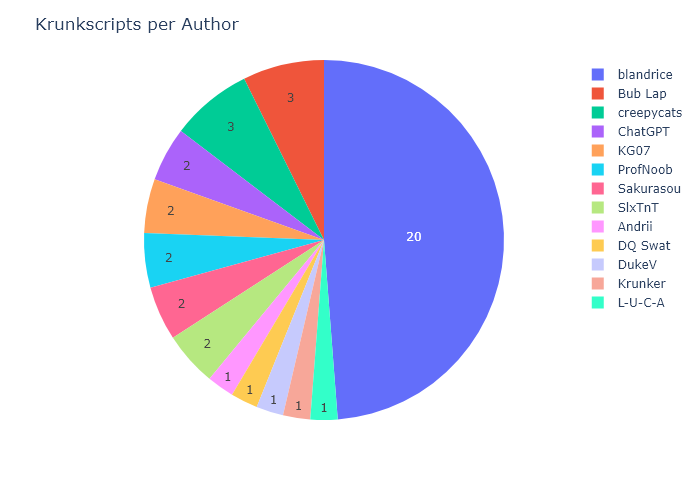
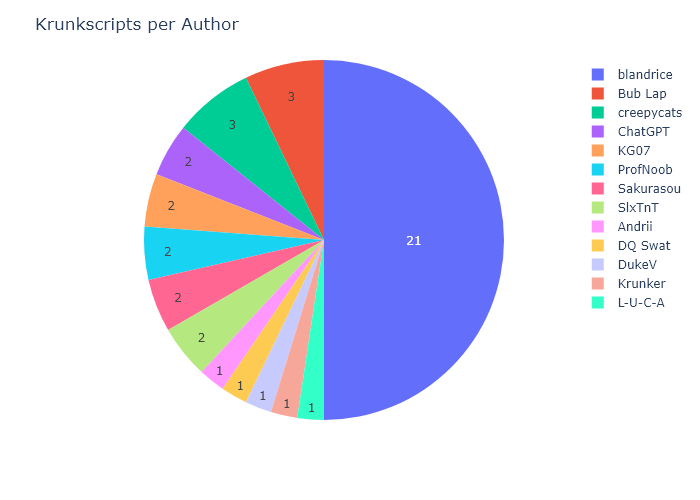
add skydome change

diff --git a/docs/KrunkScriptTable.md b/docs/KrunkScriptTable.md
@@ -10,7 +10,7 @@
 |  5 | database       | ranks              | blandrice  | yes      | yes      |         | Create a map in Krunker and copy the client & server scripts from this github to your new map.                                                                                                                  | https://github.com/blandrice/krunkerClansPlus                                          | https://github.com/blandrice/blandlibs/tree/master/libs/database/clansrank                           | ["'database'", " 'clansrank'"]                                 |
 |  6 | database       | ranksmainmap       | blandrice  | yes      | yes      |         | This is a shareable script to display popular Krunker Commmunity Clans Ranks in-game.                                                                                                                           | https://github.com/blandrice/krunkerClansPlus                                          | https://github.com/blandrice/blandlibs/tree/master/libs/database/clansrank                           | ["'database'", " 'clansrank'"]                                 |
 |  7 | examples       | drawtriangle       | Bub Lap    |          |          | yes     | Basic drawTriangle action (KrunkScript example)                                                                                                                                                                 | https://discord.com/channels/484192043833491487/575245801744498689/913314916637749258  | https://github.com/blandrice/blandlibs/tree/master/libs/examples/drawtriangle                        | ["'examples'", " 'drawtriangle'"]                              |
-|  8 | examples       | flashlight         | Krunker    | yes      | yes      |         | Flashlight script using Triggers. modified by blandrice/Profnoob/Rishabh                                                                                                                                        | https://discord.com/channels/859947586005368862/877996910902931466/1000198857877114950 | https://github.com/blandrice/blandlibs/tree/master/libs/examples/drawtriangle/flashlight             | ["'examples'", " 'drawtriangle'", " 'flashlight'"]             |
+|  8 | examples       | flashlight         | Krunker    | yes      | yes      |         | Flashlight script using Triggers. modified by blandrice/Profnoob/Rishabh                                                                                                                                        | https://discord.com/channels/859947586005368862/877996910902931466/1000198857877114950 | https://github.com/blandrice/blandlibs/tree/master/libs/examples/flashlight                          | ["'examples'", " 'flashlight'"]                                |
 |  9 | gameutil       | checkpoint         | Sakurasou  |          |          | yes     | Changes the names of the Checkpoints on the Speedrun Timer in the bottom right (Point 1, Point 2, ...)                                                                                                          | https://discord.com/channels/484192043833491487/575245801744498689/1045330962277486652 | https://github.com/blandrice/blandlibs/tree/master/libs/gameutil/checkpoint                          | ["'gameutil'", " 'checkpoint'"]                                |
 | 10 | gameutil       | ecs                | blandrice  | yes      | yes      |         | Entity Component System                                                                                                                                                                                         |                                                                                        | https://github.com/blandrice/blandlibs/tree/master/libs/gameutil/ECS/system                          | ["'gameutil'", " 'ECS'", " 'system'"]                          |
 | 11 | gameutil       | gamestart          | blandrice  | yes      | yes      |         | Detect game start in a map with a countdown.                                                                                                                                                                    |                                                                                        | https://github.com/blandrice/blandlibs/tree/master/libs/gameutil/gamestart                           | ["'gameutil'", " 'gamestart'"]                                 |
@@ -39,7 +39,8 @@
 | 34 | physics        | rotbox             | blandrice  |          |          | yes     | rotated bounding box collision                                                                                                                                                                                  |                                                                                        | https://github.com/blandrice/blandlibs/tree/master/libs/physics/collisions                           | ["'physics'", " 'collisions'"]                                 |
 | 35 | scene          | cinegato           | creepycats | yes      | yes      |         | Gato Cutscene Handler                                                                                                                                                                                           | https://discord.com/channels/484192043833491487/575245801744498689/967883995377442836  | https://github.com/blandrice/blandlibs/tree/master/libs/scene/cutscene                               | ["'scene'", " 'cutscene'"]                                     |
 | 36 | scene          | fade               | blandrice  | yes      | yes      |         | screen fade in/out using triggers https://streamable.com/x5oi68                                                                                                                                                 | https://discord.com/channels/484192043833491487/575245801744498689/1098317407061299261 | https://github.com/blandrice/blandlibs/tree/master/libs/scene/fade                                   | ["'scene'", " 'fade'"]                                         |
-| 37 | utils          | g                  | blandrice  |          |          | yes     | some global vars that other libs can reference to reduce calls                                                                                                                                                  |                                                                                        | https://github.com/blandrice/blandlibs/tree/master/libs/utils/global                                 | ["'utils'", " 'global'"]                                       |
-| 38 | utils          | gpt_strutils       | ChatGPT    |          |          | yes     | ChatGPT test on generating string utilities                                                                                                                                                                     |                                                                                        | https://github.com/blandrice/blandlibs/tree/master/libs/utils/ChatGPT                                | ["'utils'", " 'ChatGPT'"]                                      |
-| 39 | utils          | listutil           | blandrice  |          |          | yes     | Additional string utilities                                                                                                                                                                                     |                                                                                        | https://github.com/blandrice/blandlibs/tree/master/libs/utils/lists                                  | ["'utils'", " 'lists'"]                                        |
-| 40 | utils          | strutils           | ProfNoob   |          |          | yes     | Additional String utilities                                                                                                                                                                                     | https://discord.com/channels/859947586005368862/862113777946984459/957710191590268929  | https://github.com/blandrice/blandlibs/tree/master/libs/utils/strutil                                | ["'utils'", " 'strutil'"]                                      |
+| 37 | scene          | skydome            | blandrice  | yes      | yes      |         | send changes to skydome from server to client (can use triggers too)                                                                                                                                            |                                                                                        | https://github.com/blandrice/blandlibs/tree/master/libs/scene/skydome                                | ["'scene'", " 'skydome'"]                                      |
+| 38 | utils          | g                  | blandrice  |          |          | yes     | some global vars that other libs can reference to reduce calls                                                                                                                                                  |                                                                                        | https://github.com/blandrice/blandlibs/tree/master/libs/utils/global                                 | ["'utils'", " 'global'"]                                       |
+| 39 | utils          | gpt_strutils       | ChatGPT    |          |          | yes     | ChatGPT test on generating string utilities                                                                                                                                                                     |                                                                                        | https://github.com/blandrice/blandlibs/tree/master/libs/utils/ChatGPT                                | ["'utils'", " 'ChatGPT'"]                                      |
+| 40 | utils          | listutil           | blandrice  |          |          | yes     | Additional string utilities                                                                                                                                                                                     |                                                                                        | https://github.com/blandrice/blandlibs/tree/master/libs/utils/lists                                  | ["'utils'", " 'lists'"]                                        |
+| 41 | utils          | strutils           | ProfNoob   |          |          | yes     | Additional String utilities                                                                                                                                                                                     | https://discord.com/channels/859947586005368862/862113777946984459/957710191590268929  | https://github.com/blandrice/blandlibs/tree/master/libs/utils/strutil                                | ["'utils'", " 'strutil'"]                                      |

diff --git a/libs/scene/skydome/readme.md b/libs/scene/skydome/readme.md
@@ -1,0 +1,4 @@
+
+## preview gif
+https://streamable.com/80g736
+
